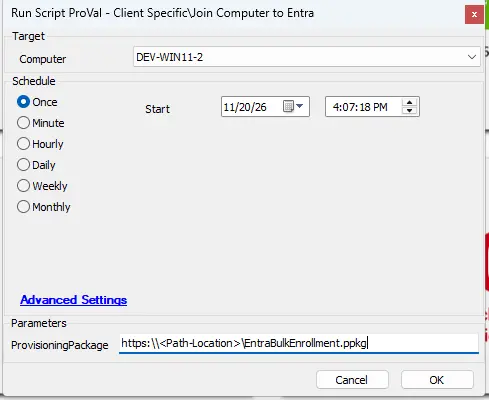
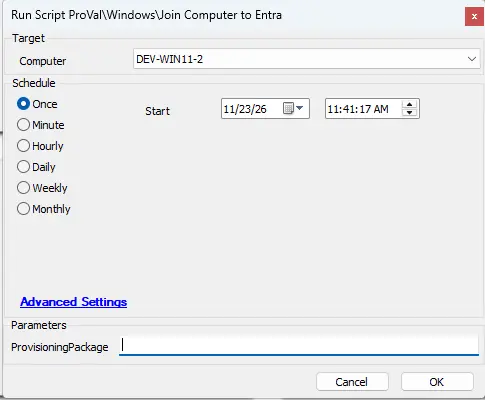
QA ammendments

diff --git a/docs/cwa/scripts/join-computer-to-entra.md b/docs/cwa/scripts/join-computer-to-entra.md
@@ -33,9 +33,57 @@ The script doesn't restart the computer. After a new join, restart it before use
 - Not joined to an Active Directory domain, and restarted since it was removed from the domain
 - No computer rename waiting on a restart, because Entra ID registers the device under its current name
 - Access on TCP port 443 to `login.microsoftonline.com` and `enterpriseregistration.windows.net`
-- An Entra ID bulk enrollment provisioning package with a bulk token that hasn't expired, reachable from the computer. It isn't needed when the computer is already Entra joined.
+- An Entra ID bulk enrollment provisioning package with a bulk token that hasn't expired, reachable from the computer. It isn't needed when the computer is already Entra joined. See [Create the Provisioning Package](#create-the-provisioning-package).
 
-To create the package, follow [Step 2: Create the Provisioning Package](/docs/7264fd6b-4957-473f-9d3e-75471c0fce73#step-2-create-the-provisioning-package) of the Domain to Entra ID and Intune Migration solution. The package and the Entra ID and Intune settings it needs are the same for ConnectWise Automate.
+## Create the Provisioning Package
+
+Create the package once for each client. Before you start, make sure you have:
+
+- An Entra ID account with the **Cloud Device Administrator**, **Intune Administrator**, or **Password Administrator** role. The role must not be scoped to an administrative unit, and the account must be in the Intune MDM user scope.
+- An account that signs in with a password or certificate-based authentication. Federated accounts in a staged rollout can't create a bulk token.
+- A Windows 10 or Windows 11 computer with [Windows Configuration Designer](https://www.microsoft.com/p/windows-configuration-designer/9nblggh4tx22) installed from the Microsoft Store. Windows Server isn't supported for this task.
+- These settings in the client's Entra ID tenant, under **Devices > Device settings**:
+  - **Users may join devices to Microsoft Entra** set to **All**, or to a group you add the package account to after creating the package.
+  - **Maximum number of devices per user** set to **Unlimited**, or higher than the number of computers you'll join with one package.
+  - **Require Multifactor Authentication to register or join devices with Microsoft Entra** set to **No**.
+- No Conditional Access policy requiring multifactor authentication (MFA) applied to the package account. Bulk enrollment doesn't support MFA, so add the package account as an exclusion after you create the package.
+- The `Microsoft.Azure.SyncFabric` service principal (App ID `00000014-0000-0000-c000-000000000000`) present in the tenant. Without it, Windows Configuration Designer can't create the bulk token.
+
+Then create the package in Windows Configuration Designer:
+
+1. Open **Windows Configuration Designer** and select **Provision desktop devices**.
+2. Enter `EntraBulkEnrollment` as the **Name**. The package file takes this name. Choose a **Project folder** in a secure location, then select **Finish**.
+
+    ![New project in Windows Configuration Designer](../../../static/img/docs/8ed2f666-9a24-48ad-a160-6c5ac537aee5/image2.webp)
+
+3. On **Set up device**, use these values:
+
+    | Setting | Value | Why |
+    |---|---|---|
+    | **Device name** | Leave empty | Each computer keeps its current name. A name here renames every computer the package is applied to. |
+    | **Enter product key** | Leave empty | The computers already run a supported edition. |
+    | **Configure devices for shared use** | **No** | **Yes** turns on shared PC mode. |
+    | **Remove pre-installed software** | **No** | **Yes** removes software already installed on the computers. |
+
+4. On **Set up network**, leave **Set up network** set to **Off**. The computers already have a network connection.
+5. On **Account Management**, select **Enroll in Azure AD**.
+6. Turn on **Refresh AAD Credentials**, and enter your Entra ID credentials when asked.
+7. Set **Bulk Token Expiry** to a date that covers the migration, up to 90 days ahead.
+8. Select **Get Bulk Token** and sign in with the administrator account, using its password or a certificate.
+
+    ![Account Management page with Get Bulk Token](../../../static/img/docs/8ed2f666-9a24-48ad-a160-6c5ac537aee5/image3.webp)
+
+9. On **Stay signed in to all your apps**, select **No, sign in to this app only**. Otherwise, the computer you're using becomes managed by the client's organization.
+10. When the page shows that the bulk token was fetched successfully, select **Next**.
+11. On **Add applications** and **Add certificates**, add nothing and select **Next**.
+12. On **Finish**, set **Protect your package** to **No**. The script applies the package without user interaction, so it can't enter a password.
+13. Select **Create**. When the package is built, select the link at the bottom of the page to open its folder. You only need `EntraBulkEnrollment.ppkg`.
+
+Copy `EntraBulkEnrollment.ppkg` to the computer, or to an HTTPS location it can reach, and set `ProvisioningPackage` to that path or URL.
+
+:::warning  
+Windows Configuration Designer doesn't encrypt its project files, and the package contains the bulk token. Keep the project folder and the `.ppkg` file somewhere secure, and delete them when the migration is finished.  
+:::
 
 ## Dependencies
 
